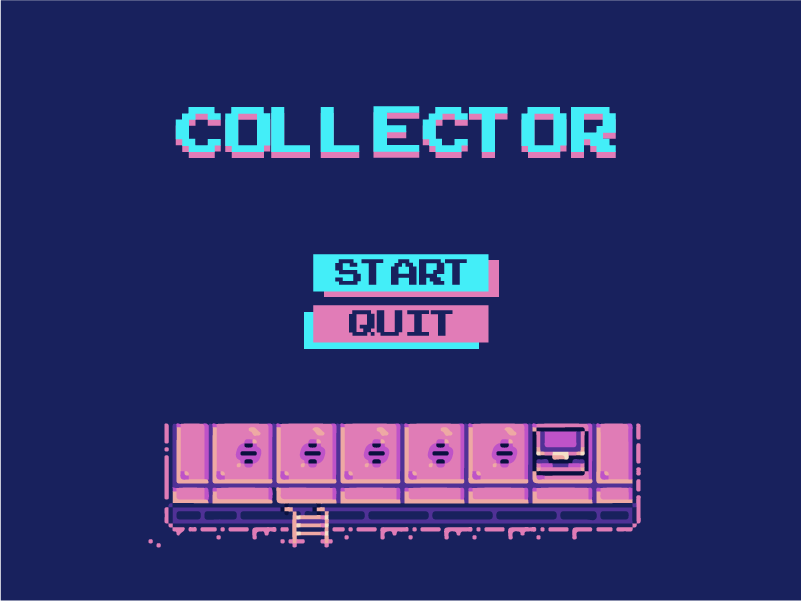
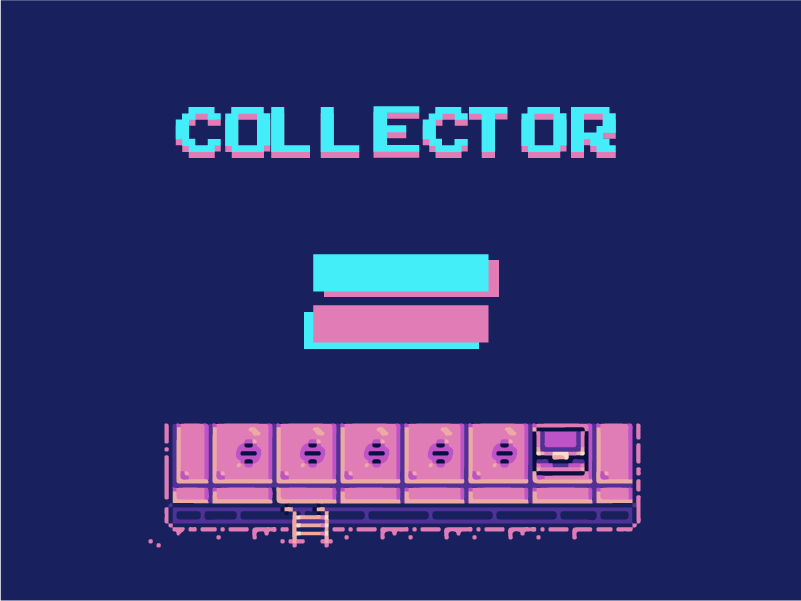
intentando implementar escena en clic

Changed region(s): [[0.4057, 0.4193, 0.593, 0.4792], [0.437, 0.5092, 0.5618, 0.5691]]

diff --git a/src/index.js b/src/index.js
@@ -1,110 +1,11 @@
 import Phaser from "phaser";
-import star from "./assets/star.png";
-import monkey from "./assets/dude.png";
 import TitleScene from "./TitleScene";
+import LevelOne from "./LevelOne";
 
 
-class LevelOne extends Phaser.Scene {
+class MyGame extends Phaser.Scene {
     constructor() {
-        super({key: 'LevelOne'});
-    }
-
-    preload() {
-        this.load.image("tiles","src/assets/CosmicLilac_Tiles.png");
-        this.load.tilemapTiledJSON('map', "src/assets/mapa1.json");
-        this.load.image("star", star);
-
-        this.load.spritesheet("dude", monkey, {
-            frameWidth: 32,
-            frameHeight: 48,
-        });
-    }
-    create() {
-        const map = this.make.tilemap({ key: "map", tileWidth: 16, tileHeight: 16});
-        const tileset = map.addTilesetImage("CosmicLilac_Tiles","tiles");
-        const fondo = map.createLayer('Fondo', tileset,0,0);
-        const platforma =map.createLayer('Plataforma', tileset,0,0);
-        const cosas = map.createLayer('Cosas', tileset,0,0);
-
-        const platforms = this.physics.add.staticGroup();
-
-        this.player = this.physics.add.sprite(100, 450, "dude");
-        this.player.setBounce(0.2);
-        this.player.setCollideWorldBounds(true);
-        this.physics.add.collider(this.player, platforma);
-        platforma.setCollisionBetween(54,67);
-
-
-        this.anims.create({
-            key: "turn",
-            frames: [{ key: "dude", frame: 4 }],
-            frameRate: 20,
-        });
-        this.anims.create({
-            key: "right",
-            frames: this.anims.generateFrameNumbers("dude", { start: 5, end: 8 }),
-            frameRate: 10,
-            repeat: -1,
-        });
-        this.anims.create({
-            key: "left",
-            frames: this.anims.generateFrameNumbers("dude", { start: 0, end: 3 }),
-            frameRate: 10,
-            repeat: -1,
-        });
-        //stars
-        const stars = this.physics.add.group({
-            key: "star",
-            repeat: 11,
-            setXY: { x: 12, y: 0, stepX: 70 },
-        });
-
-        stars.children.iterate(function (child) {
-            child.setBounceY(Phaser.Math.FloatBetween(0.4, 0.8));
-        });
-        this.physics.add.collider(stars, platforma);
-        this.physics.add.overlap(this.player, stars, collect, null, this);
-        const scoreText = this.add.text(15, 15, "Puntuació: 0", {
-            fontSize: "32px",
-            fill: "#fff",
-        });
-
-        let score = 0;
-        function collect(player, star) {
-            star.disableBody(true, true);
-            score += 1;
-            scoreText.setText("Puntuació: " + score);
-
-            if (stars.countActive(true) === 0) {
-                stars.children.iterate(function (child) {
-                    child.enableBody(true, child.x, 0, true, true);
-                });
-
-                var x =
-                    player.x < 400
-                        ? Phaser.Math.Between(400, 800)
-                        : Phaser.Math.Between(0, 400);
-            }
-        }
-    }
-
-    update() {
-        const cursors = this.input.keyboard.createCursorKeys();
-
-        if (cursors.left.isDown) {
-            this.player.setVelocityX(-160);
-            this.player.anims.play("left", true);
-        } else if (cursors.right.isDown) {
-            this.player.setVelocityX(160);
-            this.player.anims.play("right", true);
-        } else {
-            this.player.setVelocityX(0);
-            this.player.anims.play("turn");
-        }
-
-        if (cursors.up.isDown) {
-            this.player.setVelocityY(-200);
-        }
+        super({key: 'MyGame'});
     }
 }
 
@@ -120,9 +21,8 @@ const config = {
             debug: false,
         },
     },
-    scene: LevelOne,
+    scene: TitleScene,LevelOne
 };
 
 const game = new Phaser.Game(config);
-export default LevelOne;
 

diff --git a/src/TitleScene.js b/src/TitleScene.js
@@ -1,4 +1,5 @@
 import Phaser from "phaser";
+import LevelOne from "./LevelOne";
 
 
 class TitleScene extends Phaser.Scene{
@@ -10,9 +11,27 @@ class TitleScene extends Phaser.Scene{
         this.load.image('background_image', 'src/assets/start_game.png');
     }
 
+
     create(){
         let background = this.add.sprite(0,0, 'background_image');
         background.setOrigin(0,0);
+
+        let title_text = this.add.text(350,250,"START");
+        title_text.setColor("#18215D");
+        title_text.setFontSize(40);
+        title_text.setFontFamily("ArcadeClassic")
+        title_text.setFontStyle("bold")
+
+        let title_credits = this.add.text(325,300, "CREDITS");
+        title_credits.setColor("#18215D");
+        title_credits.setFontSize(40);
+        title_credits.setFontFamily("ArcadeClassic");
+        title_credits.setFontStyle("bold");
+
+        title_text.addListener('pointerdown', ()=> this.scene.start('LevelOne'));
+    }
+
+    update(){
 
     }
 }

diff --git a/src/LevelOne.js b/src/LevelOne.js
@@ -123,6 +123,5 @@ class LevelOne extends Phaser.Scene {
 //     scene: LevelOne,
 // };
 
-const game = new Phaser.Game(config);
 export default LevelOne;
 
